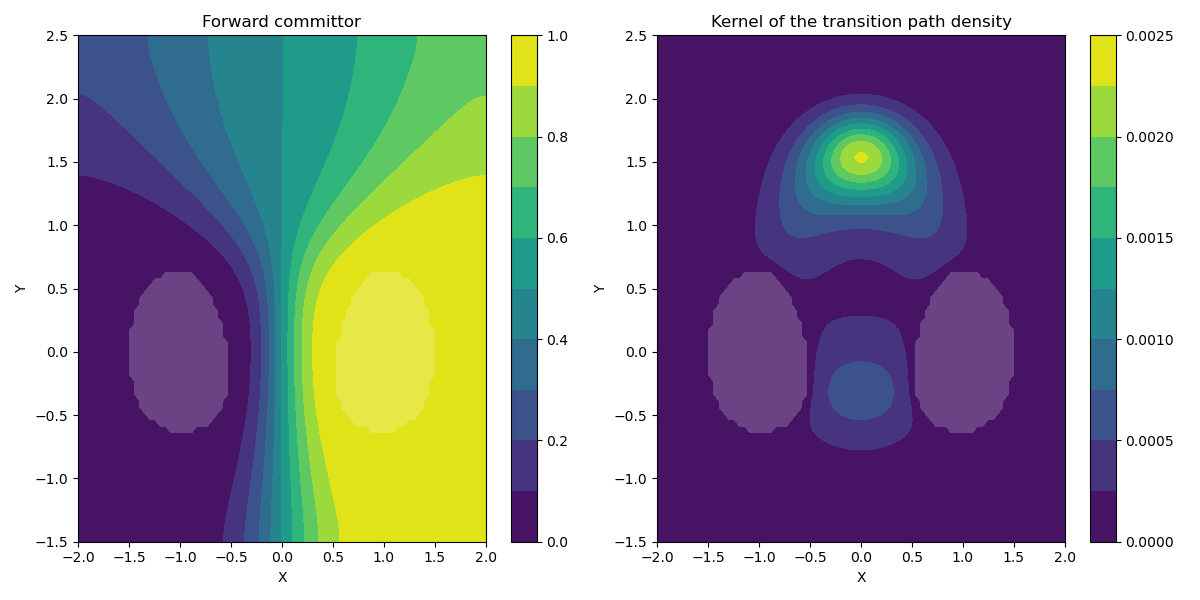
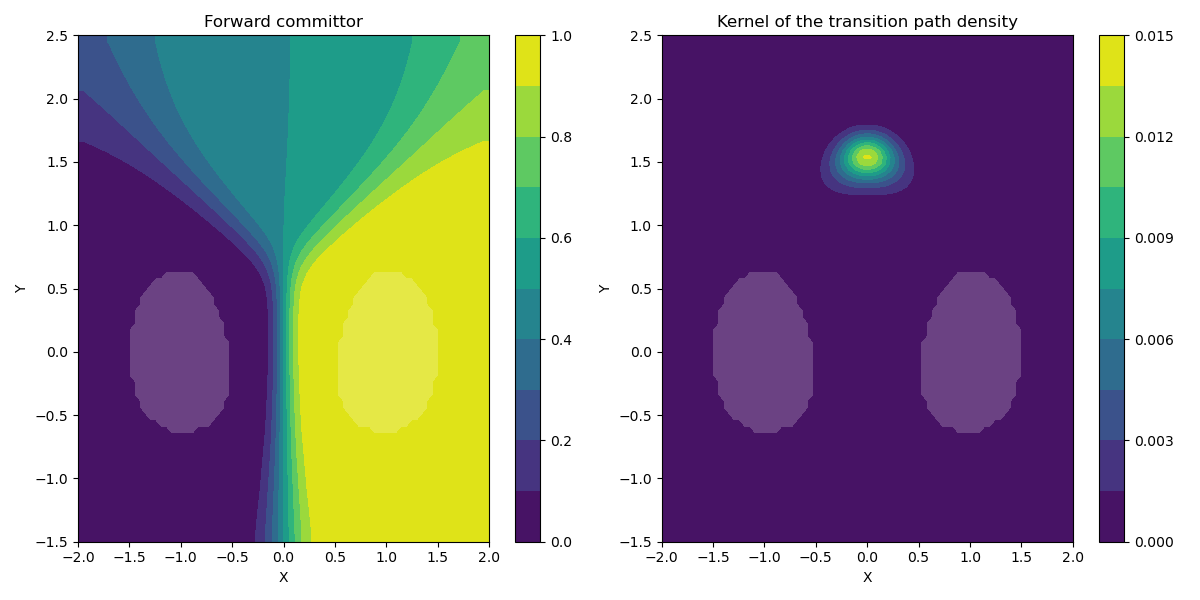
dw and tw ok

diff --git a/dw2d/dw_init.py b/dw2d/dw_init.py
@@ -1,6 +1,7 @@
 # import necessary packages
 import numpy as np
 from scipy.integrate import dblquad
+import matplotlib.pyplot as plt
 
 
 # define the potential and its gradient
@@ -48,3 +49,69 @@ prob = np.exp(-beta*V) / Z
 # identify metastable states
 R_bol = (V < Vmax) & (X < 0.0)
 P_bol = (V < Vmax) & (X > 0.0)
+
+
+# Euler-Maruyama scheme for overdamped Langevin equation
+def overdamped_langevin(x0, y0, fx, fy, D, dt, T):
+    """
+    Solves the 2D overdamped Langevin equation using the Euler-Maruyama method.
+
+    Parameters:
+        x0, y0: float
+            Initial position of the particle in the x and y directions.
+        fx, fy: function
+            Functions that calculate the deterministic force as a function of position.
+        D: float
+            Diffusion coefficient representing the strength of the random force (assuming it's equal in both dimensions).
+        dt: float
+            Time step for the numerical integration.
+        T: float
+            Total time for which to integrate.
+
+    Returns:
+        t: numpy array
+            Time points of the integration.
+        x, y: numpy arrays
+            Particle positions at each time point.
+    """
+    num_steps = int(T / dt)
+    t = np.linspace(0.0, T, num_steps + 1)
+    x = np.zeros(num_steps + 1)
+    y = np.zeros(num_steps + 1)
+    x[0], y[0] = x0, y0
+
+    for i in range(num_steps):
+        wx, wy = np.random.normal(0.0, np.sqrt(dt), 2)
+        x[i + 1] = x[i] - fx(x[i], y[i]) * dt + np.sqrt(2 * D) * wx
+        y[i + 1] = y[i] - fy(x[i], y[i]) * dt + np.sqrt(2 * D) * wy
+
+    return t, x, y
+
+
+
+# Initial positions (x, y)
+x0, y0 = -1.0, 0.0 
+
+
+# Define deterministic forces for the x and y directions
+f_x = lambda x, y: V_partialx(x, y)
+f_y = lambda x, y: V_partialy(x, y)
+
+
+# Solve the 2D Langevin equation
+dt = 0.01
+T = 10.0
+D = 1 / beta
+t, x, y = overdamped_langevin(x0, y0, f_x, f_y, D, dt, T)
+
+
+# Plot the trajectory
+plt.figure(figsize=(8, 6))
+plt.contourf(X, Y, V, levels=15, cmap='coolwarm')
+plt.colorbar(label='Energy')
+plt.plot(x, y, linestyle='-', color='blue', label='Trajectory')
+plt.xlabel('x')
+plt.ylabel('y')
+plt.title('Energy Landscape with Trajectory')
+plt.legend()
+plt.savefig("dw2d/images/traj.png")

diff --git a/main.py b/main.py
@@ -1,25 +1,18 @@
-# execute the code
-solve = 4
+# double well
+run = -1
 
-if solve == 1:
-    # set parameters
-    beta = 1
-    dx = 0.03
-    Niter = 3000
-    from doublewell import run
-elif solve == 2:
-    from doublewell import plot
-elif solve == 3:
-    # set parameters
-    dt = 0.01           # Time step for numerical integration
-    T = 10              # Total time for integration
-    D = 1               # Diffusion coefficient
-    from doublewell import langevin
-elif solve == 4:
-    # set parameters
-    beta = 10
-    h = 0.001
-    Niter = 5000
-    from triplewell import tw
-elif solve == 5:
-    from test import prova
+if run == 1:
+    from dw2d import dw_run
+    from dw2d import dw_analyse
+elif run == 0:
+    from dw2d import dw_analyse
+
+
+# triple well
+run = 1
+
+if run == 1:
+    from tw2d import tw_run
+    from tw2d import tw_analyse
+elif run == 0:
+    from tw2d import tw_analyse

diff --git a/tw2d/tw_run.py b/tw2d/tw_run.py
@@ -27,20 +27,7 @@ neumann(q)
 dirichlet(q)
 
 
-# update with iterations
-# for k in range(Niter):
-#     print(Niter-k, end="\r")
-#     for i in range(1, N - 1):
-#         for j in range(1, N - 1):
-#             if not (R_bol[i, j] | P_bol[i, j]):
-#                 q[i, j] = (2 * dx**2 * (q[i+1, j] + q[i-1, j]) + 2 * dy**2 * (q[i, j+1] + q[i, j-1])
-#                         - dx * dy**2 * beta * Vx[i, j] * (q[i+1, j] - q[i-1, j])
-#                         - dy * dx**2 * beta * Vy[i, j] * (q[i, j+1] - q[i, j-1])) / (4 * (dx**2 + dy**2)) 
-#     # Apply boundary conditions
-#     neumann(q)
-#     dirichlet(q)
-
-
+# solve iteratively the BK equation using finite differences method 
 for k in range(Niter):
     print(Niter-k, end="\r")
     for i in range(1, Nx - 1):

diff --git a/maintw.py b/maintw.py
@@ -1,6 +1,16 @@
-run = 1
+# run = 1 to run and analyze, run = 0 to analyze existing data 
 
-if run == 1:
+# triple well
+runtw = 1
+
+if runtw == 1:
+    # high temperature
+    beta = 1.67
     from tw2d import tw_run
-
-from tw2d import tw_analyse
+    from tw2d import tw_analyse
+    # low temperature
+    beta = 6.67
+    from tw2d import tw_run
+    from tw2d import tw_analyse
+else:
+    from tw2d import tw_analyse

diff --git a/tw2d/tw_init.py b/tw2d/tw_init.py
@@ -52,6 +52,8 @@ def V_partialy(x, y):
 
 
 # simulation parameters
+beta = 6.67
+
 Lx = (-2.0, 2.0)
 Ly = (-1.5, 2.5)
 dx = 0.05
@@ -60,7 +62,6 @@ dy = dx
 Nx = int((Lx[1] - Lx[0]) / dx)
 Ny = int((Ly[1] - Ly[0]) / dy)
 
-beta = 1.67
 Vmax = -2.5
 Niter = 1000
 

diff --git a/tw2d/tw_analyse.py b/tw2d/tw_analyse.py
@@ -3,7 +3,7 @@ import numpy as np
 import matplotlib.pyplot as plt
 import os
 
-from tw2d.tw_init import X, Y, V, prob, beta, R_bol, P_bol
+from tw2d.tw_init import X, Y, V, prob, R_bol, P_bol, beta
 
 
 # Create folder for images, if it does not already exist
